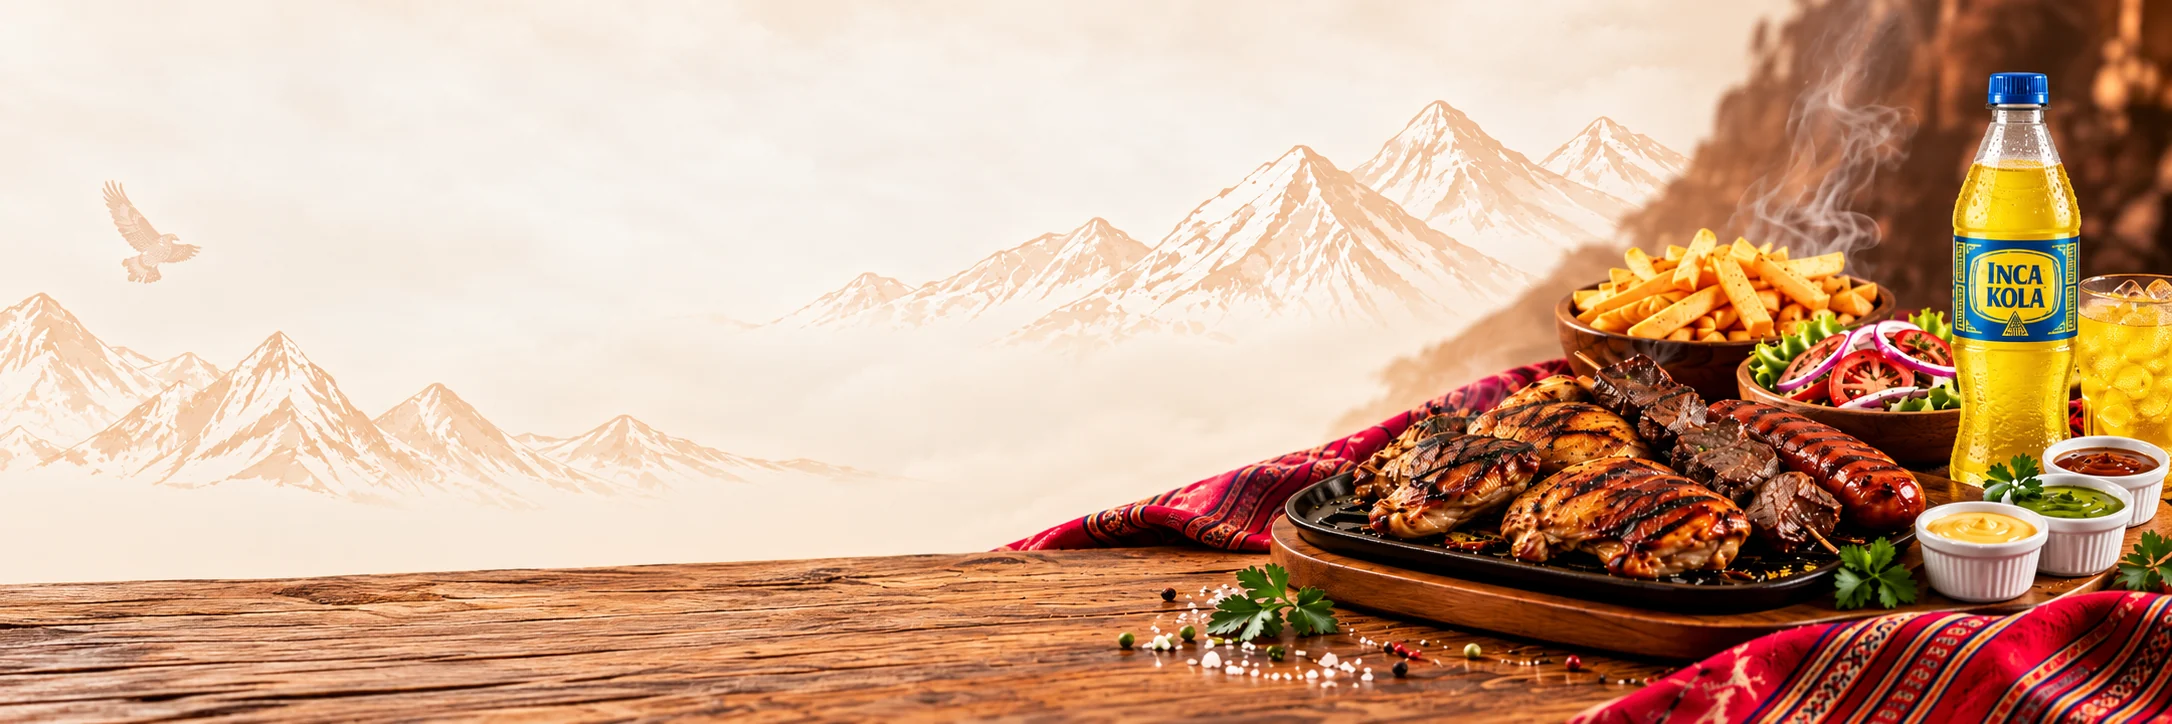
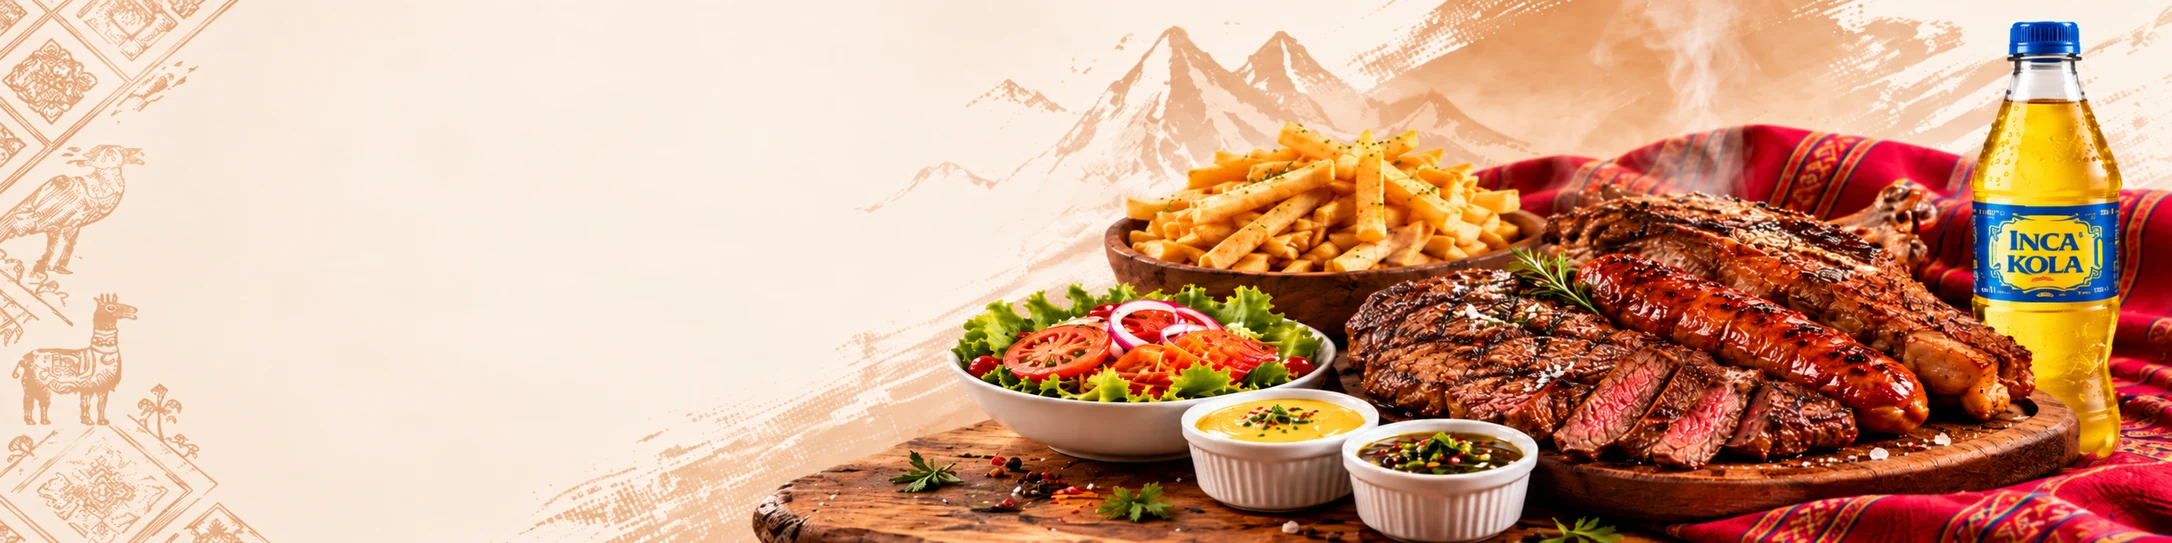
feat: separa lettering y renueva fondo del carrusel dos

diff --git a/src/features/home/HomeHero.tsx b/src/features/home/HomeHero.tsx
@@ -26,13 +26,13 @@ export function HomeHero({ onAction }: { onAction: (section: string) => void }) 
     <AnimatePresence initial={false}>
       <motion.picture key={slide.image} className={`home-hero-picture slide-${slide.image}`} initial={{ opacity: 0 }} animate={{ opacity: 1 }} exit={{ opacity: 0 }} transition={{ duration: reduce ? 0 : .35 }}>
         {current === 0 && <source media="(max-width: 650px)" srcSet="/images/home/hero-mobile.webp" />}
-        <img src={`/images/home/${slide.image}-${current < 2 ? '2172' : '1080'}.webp`} srcSet={current < 2 ? `/images/home/${slide.image}-1080.webp 1080w, /images/home/${slide.image}-2172.webp 2172w` : undefined} sizes="100vw" alt={slide.alt} width={current < 2 ? 2172 : 1080} height={current < 2 ? 724 : 432} fetchPriority="high" />
+        <img src={`/images/home/${slide.image}-${current < 2 ? '2172' : '1080'}.webp`} srcSet={current < 2 ? `/images/home/${slide.image}-1080.webp 1080w, /images/home/${slide.image}-2172.webp 2172w` : undefined} sizes="100vw" alt={slide.alt} width={current < 2 ? 2172 : 1080} height={current === 0 ? 724 : current === 1 ? 543 : 432} fetchPriority="high" />
       </motion.picture>
     </AnimatePresence>
     <div className="home-hero-inner home-container">
       <AnimatePresence mode="wait" initial={false}>
         <motion.div key={current} className="home-hero-copy" initial={{ opacity: 0, y: 8 }} animate={{ opacity: 1, y: 0 }} exit={{ opacity: 0, y: -8 }} transition={{ duration: reduce ? 0 : .2 }}>
-          <h1>{current === 0 ? <><span className="sr-only">Sabor peruano en cada brasa</span><img className="home-hero-title" src="/images/home/title.webp" alt="" width="1400" height="519" /></> : <><span>{slide.first}</span><span className="home-brush-accent">{slide.second}</span></>}</h1>
+          <h1>{current < 2 ? <><span className="sr-only">{slide.first} {slide.second}</span><img className="home-hero-title" src={current === 0 ? '/images/home/title.webp' : '/images/home/title-compartir.webp'} alt="" width="1400" height={current === 0 ? 519 : 468} /></> : <><span>{slide.first}</span><span className="home-brush-accent">{slide.second}</span></>}</h1>
           <p>{slide.description}</p>
         </motion.div>
       </AnimatePresence>

diff --git a/src/styles/home.css b/src/styles/home.css
@@ -20,8 +20,12 @@
 .home-hero h1 > span { display: block; white-space: nowrap; }
 .home-hero-title { display: block; width: 100%; height: auto; }
 .home-hero-sharing h1 { font-size: clamp(34px, 3.9vw, 76px); line-height: 1.15; }
-.home-hero-sharing .home-hero-copy { width: 48%; }
-.home-hero-sharing .home-hero-copy p { max-width: 520px; }
+.home-hero-sharing { aspect-ratio: 4; min-height: 360px; }
+.home-hero-sharing .home-hero-inner { padding-block: 18px 30px; }
+.home-hero-sharing .home-hero-copy { width: 44%; }
+.home-hero-sharing h1 { margin-bottom: 12px; }
+.home-hero-sharing h1:has(.home-hero-title) { width: 100%; }
+.home-hero-sharing .home-hero-copy p { max-width: 430px; margin-bottom: 18px; }
 .home-brush-accent { color: var(--home-red); position: relative; padding-bottom: 14px; }
 .home-brush-accent::after { content: ''; width: 48%; height: 8px; background: var(--home-red); position: absolute; right: 2%; bottom: 0; border-radius: 90% 40% 60% 20%; transform: rotate(-3deg); }
 .home-hero-copy p { font-size: clamp(16px, 1.3vw, 25px); line-height: 1.3; margin: 0 0 26px; max-width: 590px; }
@@ -157,8 +161,9 @@
   .home-hero-sharing { aspect-ratio: .95; background: #fbf0e2; }
   .home-hero-sharing h1 { font-size: clamp(26px, 6.7vw, 44px); }
   .home-hero-sharing .home-hero-copy { width: 100%; }
+  .home-hero-sharing h1:has(.home-hero-title) { width: 92%; }
   .home-hero-sharing .home-hero-copy p { width: 86%; font-size: clamp(13px, 3.3vw, 19px); }
-  .home-hero-sharing .home-hero-picture { top: 36%; }
+  .home-hero-sharing .home-hero-picture { top: 44%; }
   .home-hero-sharing .home-hero-picture img { object-position: 72% bottom; }
   .home-hero-sharing .home-hero-actions { width: 52%; }
   .home-hero-sharing .home-button { gap: 6px; padding-inline: 9px; font-size: clamp(12px, 3vw, 16px); }

diff --git a/docs/PAGINA_INICIO_UI.md b/docs/PAGINA_INICIO_UI.md
@@ -35,3 +35,5 @@ Propuesta simplificada según el adjunto codex-clipboard-ebd36303-4883-4ab3-a977
 Pedir ahora y Quiero ser parte comparten el rojo #ed0000. Las credenciales se elevan, amplían 10%, enderezan y pasan al frente con un destello al hover o foco de teclado; transición de 380 ms. Touch conserva la composición y reduced motion desactiva desplazamiento/destello.
 
 La segunda diapositiva usa el fondo limpio adjunto codex-clipboard-6b777f19-da2a-4f14-89e7-3fc6bc04330a.png, optimizado en WebP 1080/2172. Copia: Comparte el fuego / de nuestra cocina; descripción y CTA Descubre combos según la referencia. Conserva Knewave y los controles del carrusel. En móvil el texto ocupa la parte superior y la fotografía la parte inferior para conservar legibilidad.
+
+Actualización del carrusel 2: fondo codex-clipboard-2b6ab9ea-3f76-4cb7-b7c9-bc1bf564fa67.png (2508×627), WebP 1080/2172. El título se aísla en title-compartir.webp (1400×468, alpha) con ImageGen integrado desde la referencia; texto alternativo semántico en el h1. Prompt y origen en INICIO_ASSETS_GENERADOS.json.
